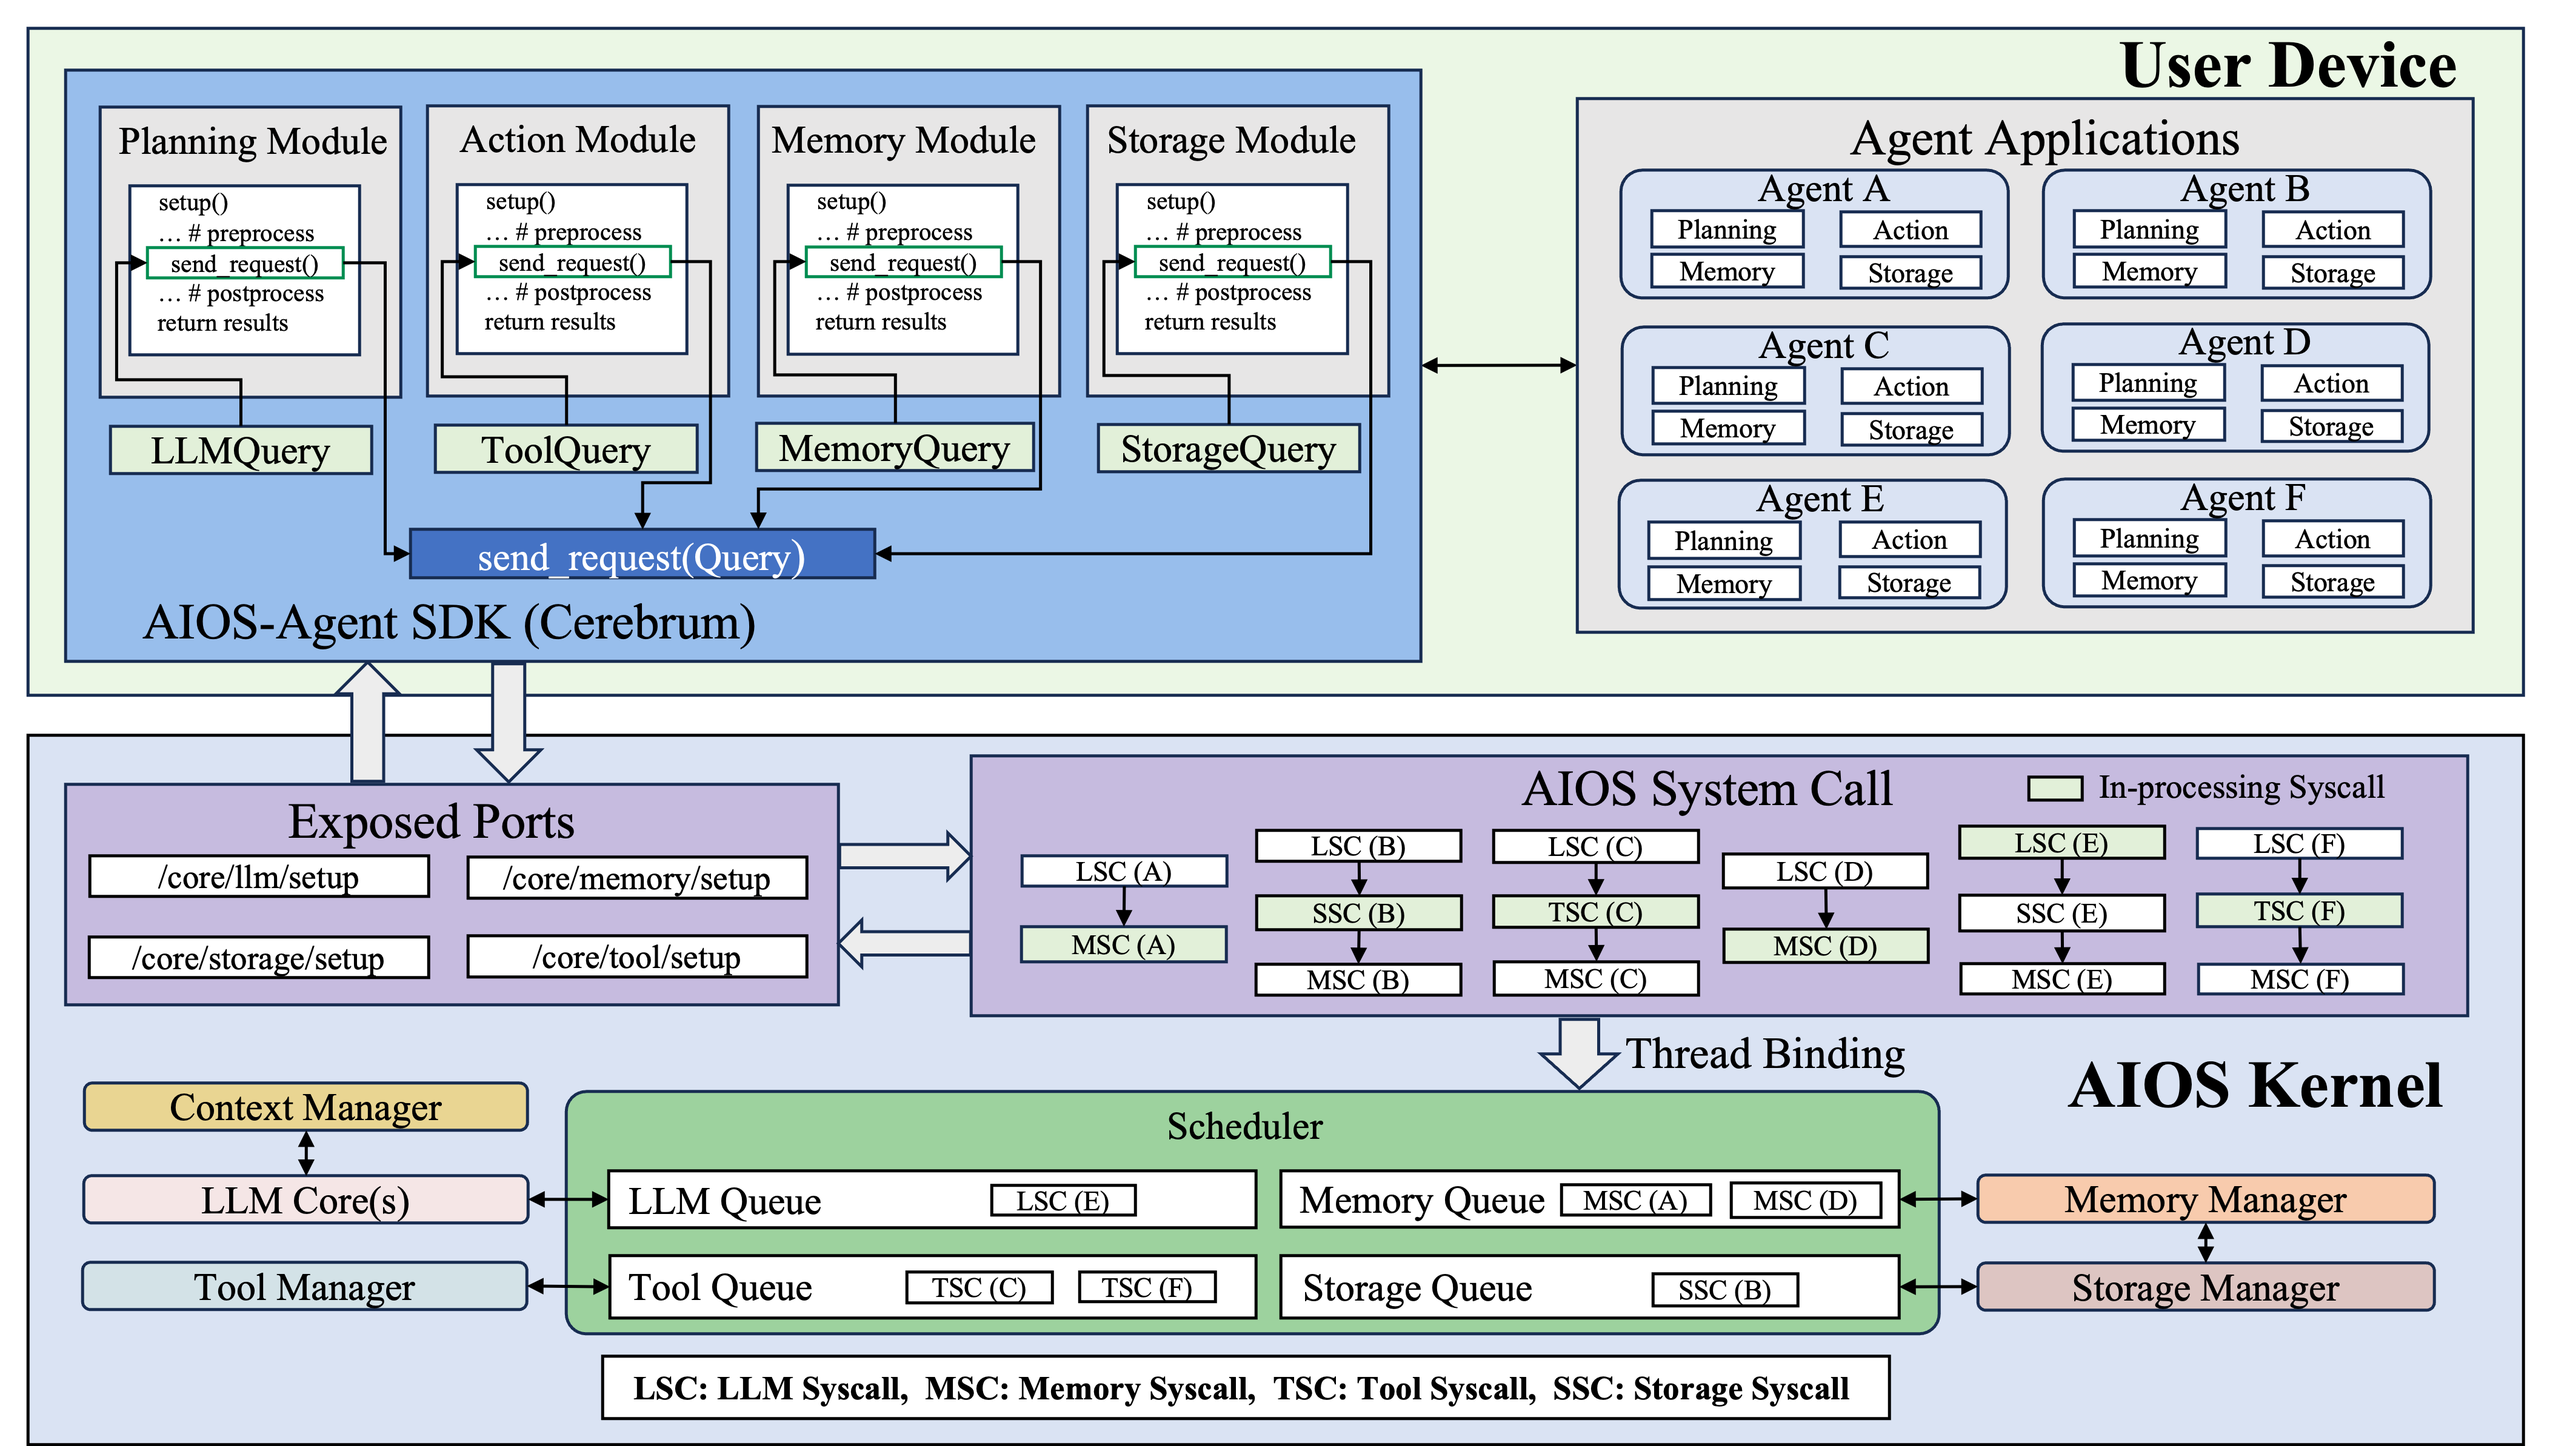
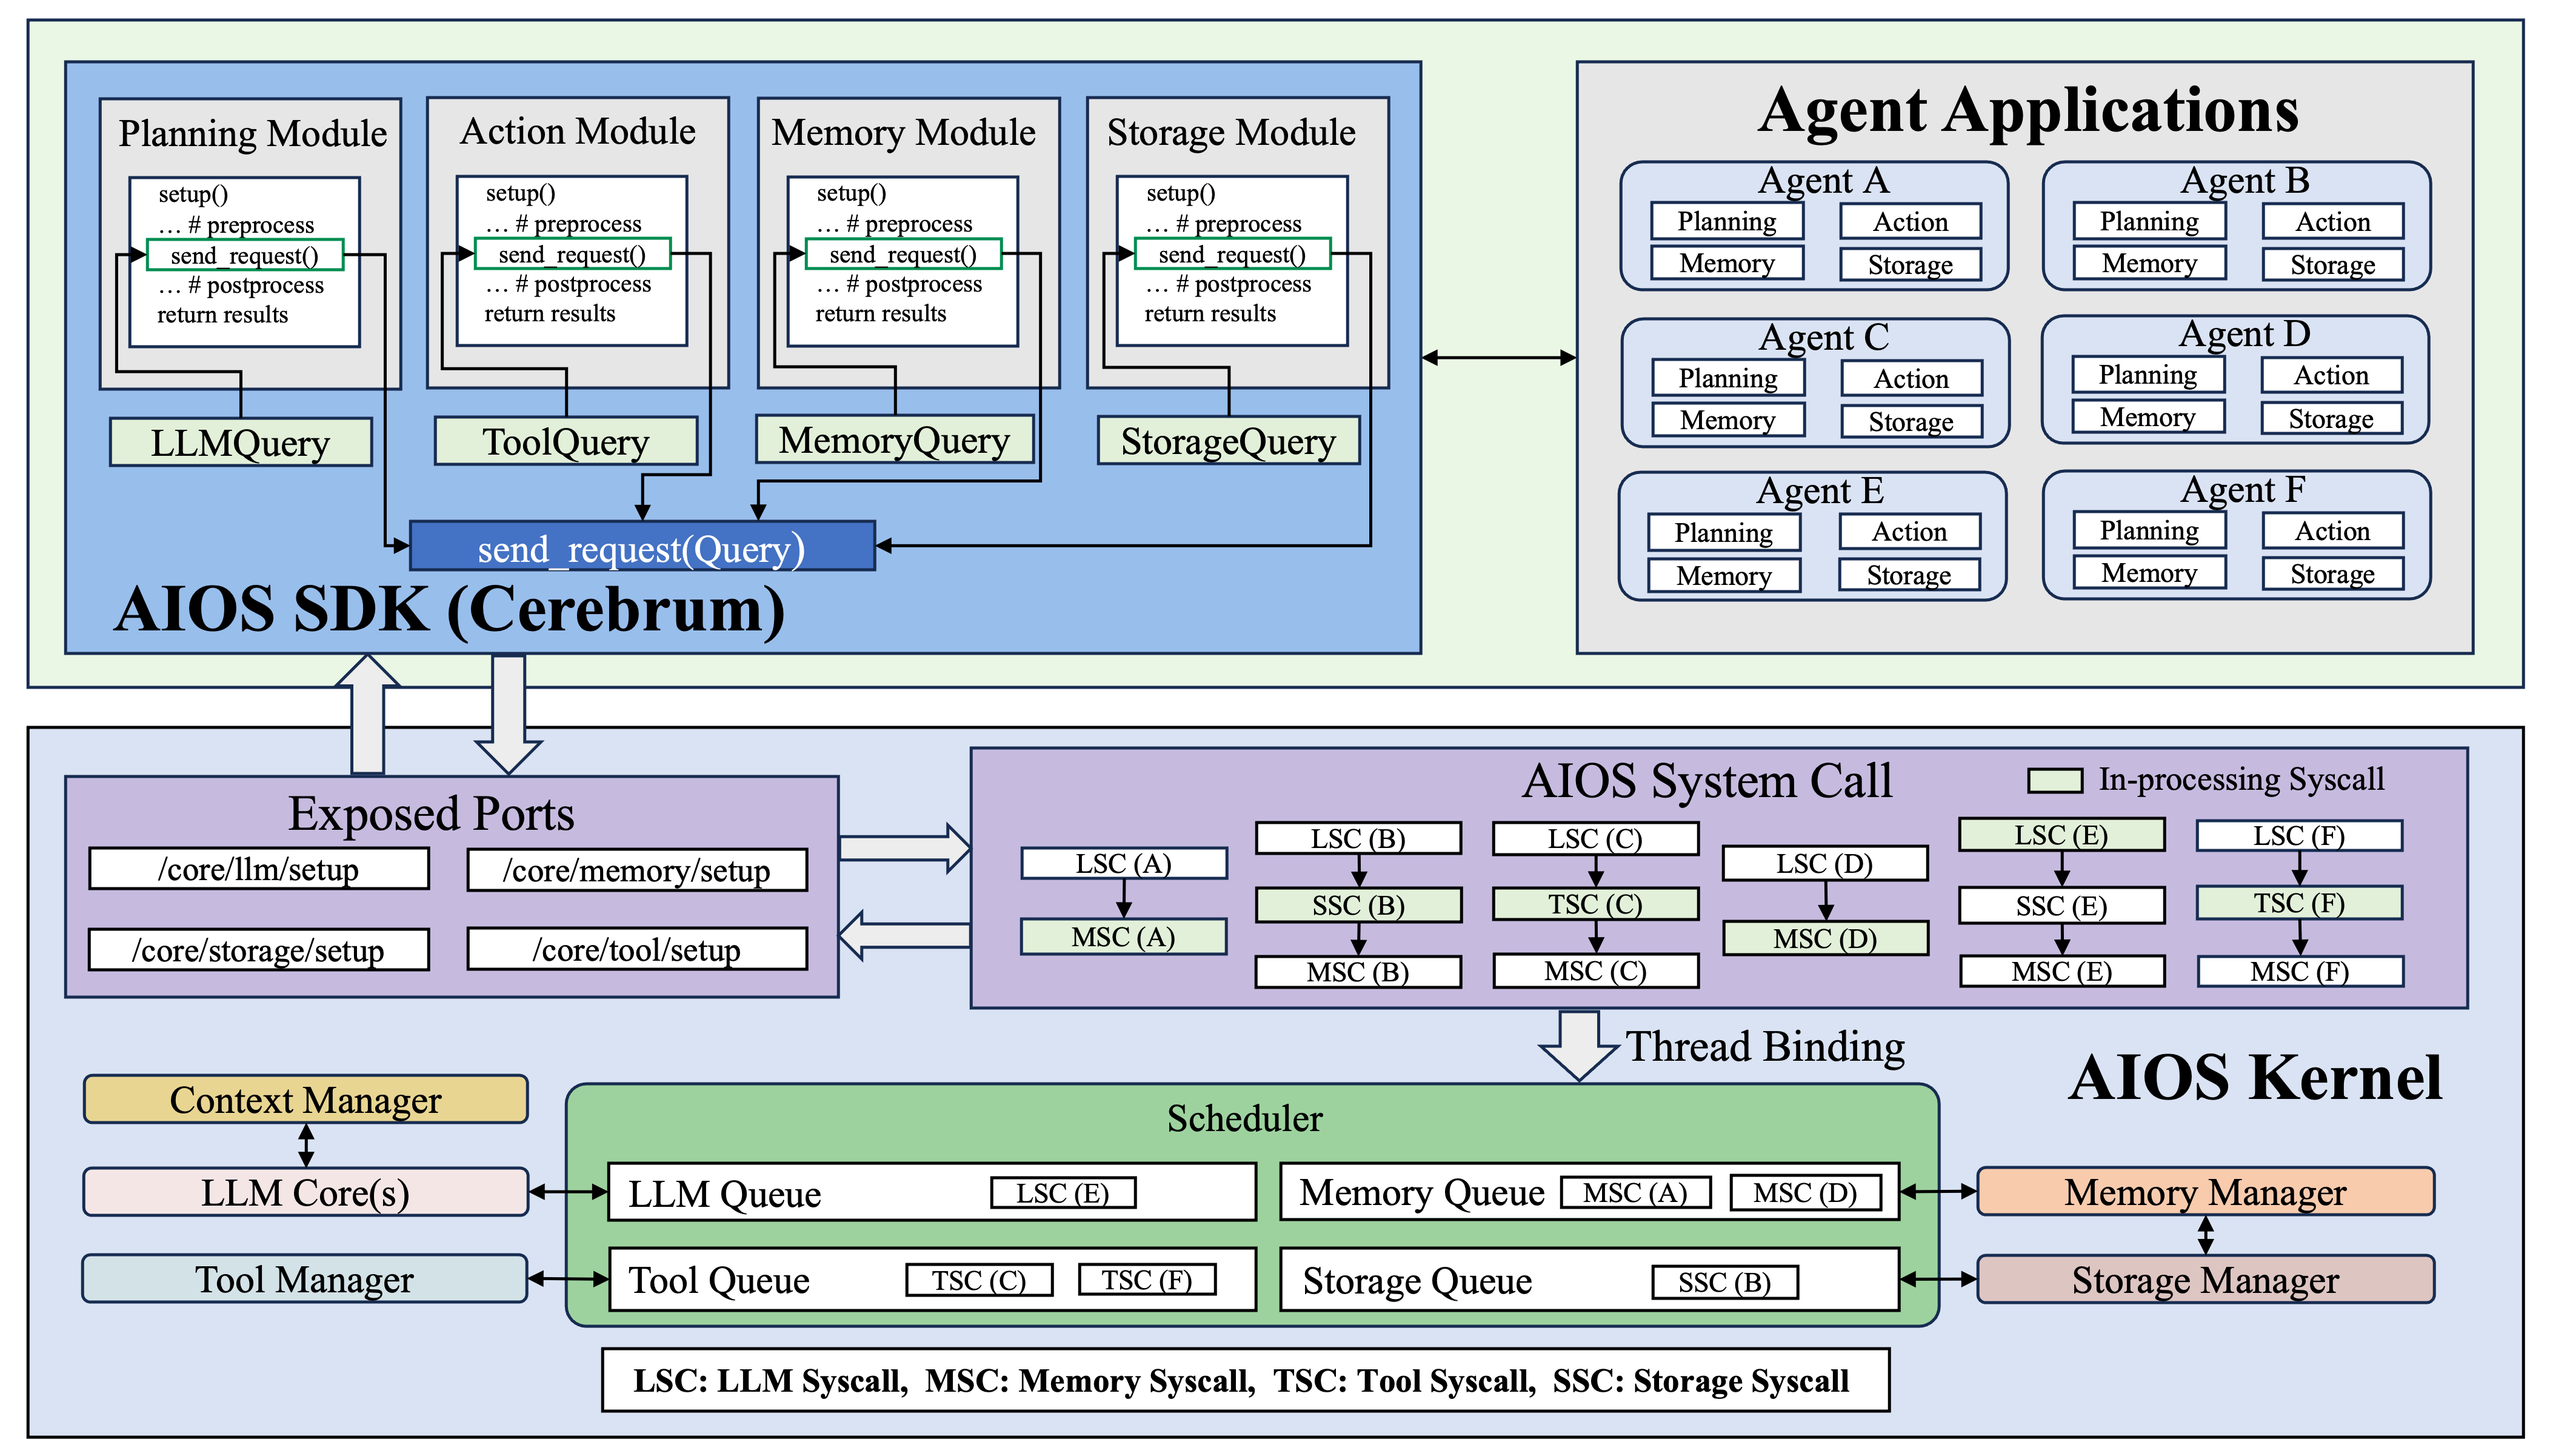
update figures and readme

diff --git a/README.md b/README.md
@@ -17,13 +17,13 @@ AIOS is the AI Agent Operating System, which embeds large language model (LLM) i
 <img src="docs/assets/aios-figs/architecture.jpg">
 </p>
 
-The AIOS system is comprised of two key components: the AIOS kernel and the AIOS-Agent SDK.
+The AIOS system is comprised of two key components: the AIOS kernel and the AIOS SDK.
 The AIOS kernel acts as an abstraction layer over the operating system kernel, managing various resources that agents require, such as LLM, memory, storage and tool. 
-The AIOS-Agent SDK is designed for agent users and developers, enabling them to build and run agent applications by interacting with the AIOS kernel.
-AIOS kernel is the current repository and AIOS-Agent SDK can be found at [here](https://github.com/agiresearch/Cerebrum)
+The AIOS SDK is designed for agent users and developers, enabling them to build and run agent applications by interacting with the AIOS kernel.
+AIOS kernel is the current repository and AIOS SDK can be found at [here](https://github.com/agiresearch/Cerebrum)
 
 ### Modules and Connections
-Below shows how agents utilize AIOS-Agent SDK to interact with AIOS kernel and how AIOS kernel receives agent queries and leverage the chain of syscalls that are scheduled and dispatched to run in different modules. 
+Below shows how agents utilize AIOS SDK to interact with AIOS kernel and how AIOS kernel receives agent queries and leverage the chain of syscalls that are scheduled and dispatched to run in different modules. 
 <p align="center">
 <img src="docs/assets/aios-figs/details.png">
 </p>
@@ -40,6 +40,69 @@ Below shows how agents utilize AIOS-Agent SDK to interact with AIOS kernel and h
 - **[2024-04-02]** 🤝 AIOS [Discord Community](https://discord.gg/B2HFxEgTJX) is up. Welcome to join the community for discussions, brainstorming, development, or just random chats! For how to contribute to AIOS, please see [CONTRIBUTE](https://github.com/agiresearch/AIOS/blob/main/docs/CONTRIBUTE.md).
 - **[2024-03-25]** ✈ Our paper [AIOS: LLM Agent Operating System](https://arxiv.org/abs/2403.16971) is released!
 - **[2023-12-06]** 📋 After several months of working, our perspective paper [LLM as OS, Agents as Apps: Envisioning AIOS, Agents and the AIOS-Agent Ecosystem](https://arxiv.org/abs/2312.03815) is officially released.
+
+## Different deployment modes of AIOS
+Here are some key notations that are required to know before introducing the different modes of AIOS. 
+- **AHM (Agent Hub Machine)**: Central server that hosts the agent marketplace/repository where users can publish, download, and share agents. Acts as the distribution center for all agent-related resources.
+- **AUM (Agent UI Machine)**: Client machine that provides user interface for interacting with agents. Can be any device from mobile phones to desktops that supports agent visualization and control.
+- **ADM (Agent Development Machine)**: Development environment where agent developers write, debug and test their agents. Requires proper development tools and libraries.
+- **ARM (Agent Running Machine)**: Execution environment where agents actually run and perform tasks. Needs adequate computational resources for agent operations.
+
+The following parts introduce different modes of deploying AIOS. **Currently, AIOS already supports Mode 1 and Mode 2, other modes with new features are still ongoing.**
+
+### Mode 1 (Local Kernel Mode)
+<p align="center">
+<img src="docs/assets/aios-figs/stage1.png" width="300“>
+</p>
+
+- Features:
+  - For agent users: They can download agents from agent hub from Machine B and run agents on Machine A. 
+  - For agent developers: They can develop and test agents in Machine A and can upload agents to agent hub on Machine B.
+
+### Mode 2 (Remote Kernel Mode)
+<p align="center">
+<img src="docs/assets/aios-figs/stage2.png" width="300“>
+</p>
+
+- Features: 
+  - Remote use of agents: Agent users / developers can use agents on Machine B, which is different from the development and running machine (Machine A).  
+  - Benefit users who would like to use agents on resource-restricted machine (e.g., mobile device or edge device)
+
+### Mode 2.5 (Remote Kernel Dev Mode)
+<p align="center">
+<img src="docs/assets/aios-figs/stage2.5.png" width="300“>
+</p>
+
+- Features:
+  - Remote development of agents: Agent developers can develop their agents on Machine B while running and testing their agents in Machine A. Benefit developers who would like to develop agents on resource-restricted machine (e.g., mobile device or edge device)
+- Critical technique:
+  - Packaging and agent transmission on different machines for distributed agent development and testing
+
+### Mode 3 (Personal Remote Kernel Mode)
+<p align="center">
+<img src="docs/assets/aios-figs/stage3.png" width="800“>
+</p>
+
+- Ongoing Features:
+  - Each user/developer can have their personal AIOS with long-term persistent data as long as they have registered account in the AIOS ecosystem
+  - Their personal data can be synced to different machines with the same account
+
+- Critical techniques:
+  - User account registration and verification mechanism
+  - Persistent personal data storage for each user's AIOS
+  - Synchronization for different AIOS instances on different devices within the same account
+  - Data privacy mechanism
+
+### Mode 4 (Personal Remote Virtual Kernel Mode)
+<p align="center">
+<img src="docs/assets/aios-figs/stage4.png" width="800“>
+</p>
+
+- Ongoing Features:
+  - Different user/developer’s personal AIOS kernels can co-exist in the same physical machine through virtualization
+- Critical techniques:
+  - Virtualization of different AIOS kernel instances in the same machine
+  - Scheduling and resource allocation mechanism for different virtual machines located in the same machine
 
 
 ## ✈ Getting Started
@@ -61,7 +124,6 @@ AIOS supports several API integrations that require configuration. You can use t
 
 When no environment variables are set, the following API keys will be shown:
 - `OPENAI_API_KEY`: OpenAI API key for accessing OpenAI services
-- `ANTHROPIC_API_KEY`: Anthropic API key for accessing Anthropic services
 - `GEMINI_API_KEY`: Google Gemini API key for accessing Google's Gemini services
 - `GROQ_API_KEY`: Groq API key for accessing Groq services
 - `HF_AUTH_TOKEN`: HuggingFace authentication token for accessing models
@@ -70,15 +132,14 @@ When no environment variables are set, the following API keys will be shown:
 To obtain these API keys:
 1. OpenAI API: Visit https://platform.openai.com/api-keys
 2. Google Gemini API: Visit https://makersuite.google.com/app/apikey
-3. Anthropic API: Visit https://console.anthropic.com/settings/keys.
-4. Groq API: Visit https://console.groq.com/keys
-5. HuggingFace Token: Visit https://huggingface.co/settings/tokens
+3. Groq API: Visit https://console.groq.com/keys
+4. HuggingFace Token: Visit https://huggingface.co/settings/tokens
 
 #### Installation from source
 Git clone AIOS kernel
 ```bash
 git clone https://github.com/agiresearch/AIOS.git
-cd AIOS && git checkout tags/v0.2.0.beta -b v0.2.0.beta-branch
+cd AIOS && git checkout v0.2.0.beta
 ```
 Create venv environment (recommended)
 ```bash
@@ -194,7 +255,7 @@ First, you need to start the AIOS kernel by running the following commands
 bash runtime/launch_kernel.sh
 ```
 
-Then you can start the client provided by the AIOS-Agent SDK either in the terminal or in the WebUI. The instructions can be found at [here](https://github.com/agiresearch/Cerebrum)
+Then you can start the client provided by the AIOS SDK either in the terminal or in the WebUI. The instructions can be found at [here](https://github.com/agiresearch/Cerebrum)
 
 
 ### Supported Agent Frameworks
